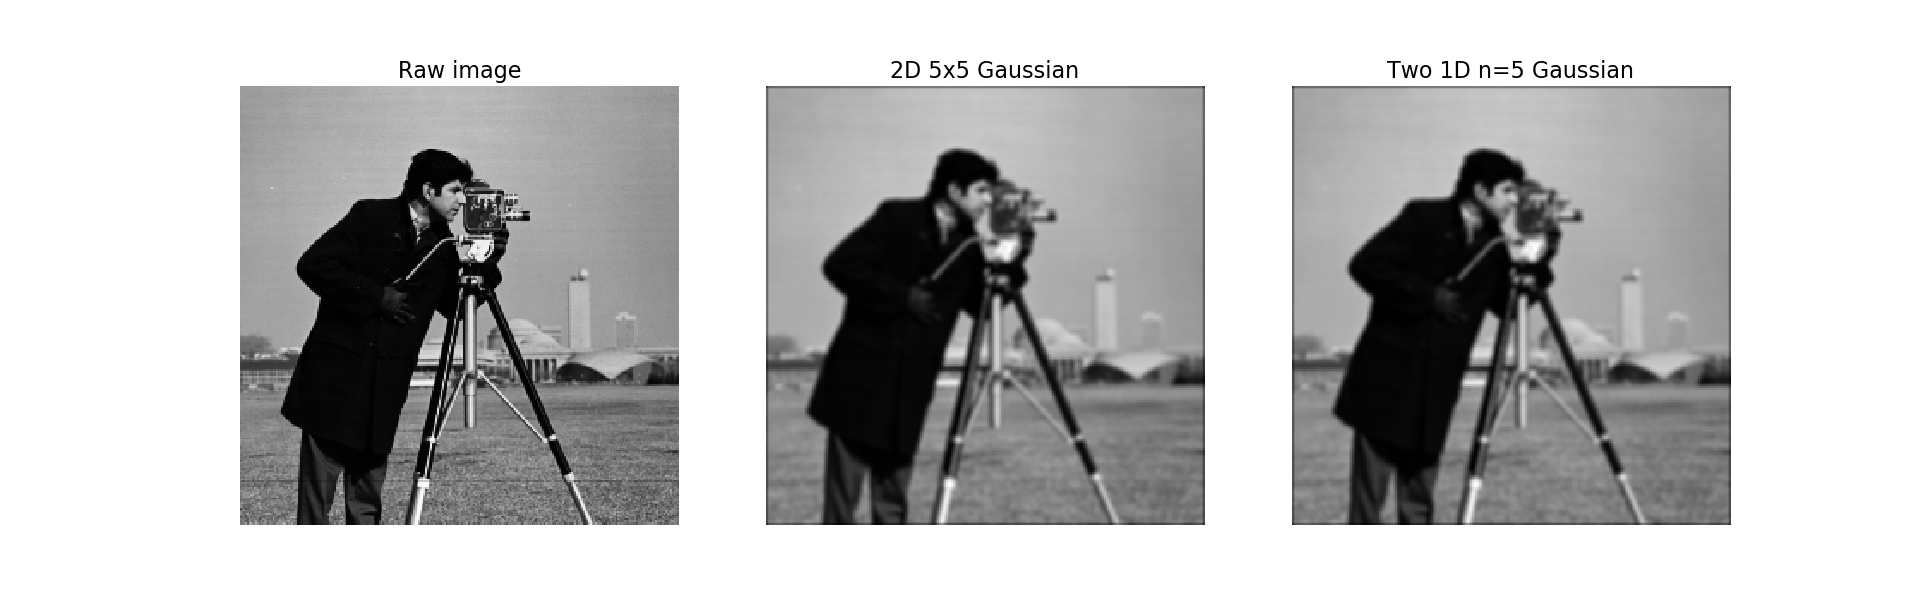
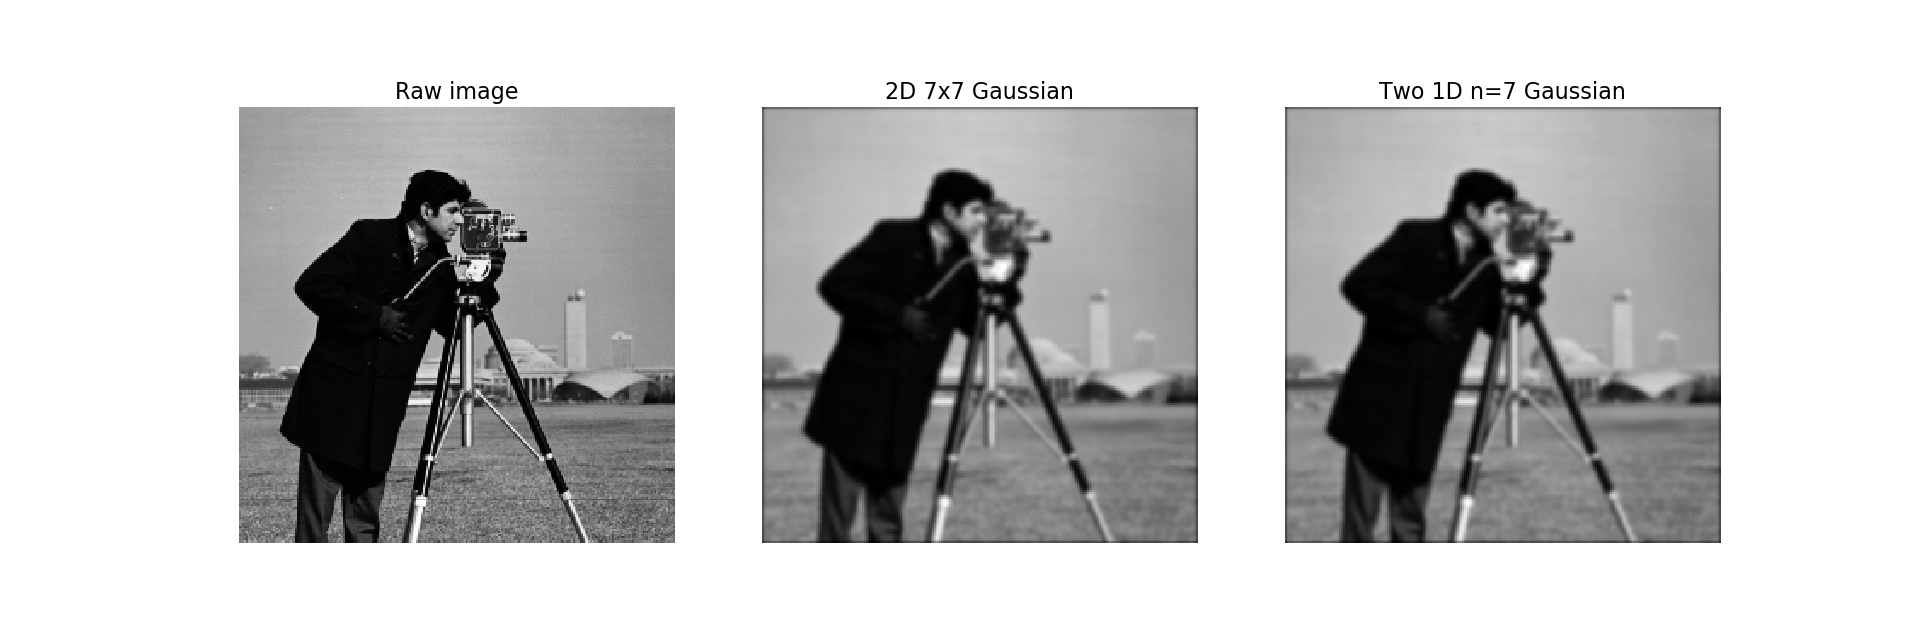
fix hw2

diff --git a/EECE5639-Computer-Vision/Homework-2/main.tex b/EECE5639-Computer-Vision/Homework-2/main.tex
@@ -51,7 +51,7 @@ which can also be separated into two 1D Gaussian filters:
 \begin{equation*}
     G(x) = \frac{1}{\sqrt{2\pi}\sigma}e^{-\frac{x^2}{2\sigma^2}}, G(y) = \frac{1}{\sqrt{2\pi}\sigma}e^{-\frac{y^2}{2\sigma^2}}
 \end{equation*}
-With implementation in python, a $5\times 5$ 2D Gaussian filter mask with standard deviation $1.4$ can be applied onto the sample figure, as shown in Figure \ref{ouput}. Please refer to Appendix for detailed code.
+The minimum filter size is $2\times ceil(2\sigma)+1=7$. With implementation in python, a $7\times 7$ 2D Gaussian filter mask with standard deviation $1.4$ can be applied onto the sample figure, as shown in Figure \ref{ouput}. Please refer to Appendix for detailed code.
 \begin{figure}[H]
 \centering
 \includegraphics[width = 1\textwidth]{output.png}
@@ -330,8 +330,9 @@ class Homework2(object):
                      fontsize=12)
         fig.show()
     
-    def solve_p3(self, n=5, sigma=1.4, show=True):
+    def solve_p3(self, sigma=1.4, show=True):
         """Solve problem #1."""
+        n = int(2 * np.ceil(2 * sigma) + 1)
         # 2D Gaussian
         ovrlay = int(n / 2)
         inds = np.arange(-ovrlay, ovrlay + 1)
@@ -493,7 +494,7 @@ if __name__ == "__main__":
     hw2.solve_p5()
     hw2.solve_p6()
     hw2.solve_p7()
-
+    
 \end{python}
 \end{document}
 

diff --git a/EECE5639-Computer-Vision/Homework-2/hw2.py b/EECE5639-Computer-Vision/Homework-2/hw2.py
@@ -101,8 +101,9 @@ class Homework2(object):
                      fontsize=12)
         fig.show()
     
-    def solve_p3(self, n=5, sigma=1.4, show=True):
+    def solve_p3(self, sigma=1.4, show=True):
         """Solve problem #1."""
+        n = int(2 * np.ceil(2 * sigma) + 1)
         # 2D Gaussian
         ovrlay = int(n / 2)
         inds = np.arange(-ovrlay, ovrlay + 1)
@@ -264,4 +265,4 @@ if __name__ == "__main__":
     hw2.solve_p5()
     hw2.solve_p6()
     hw2.solve_p7()
-    
+#    
